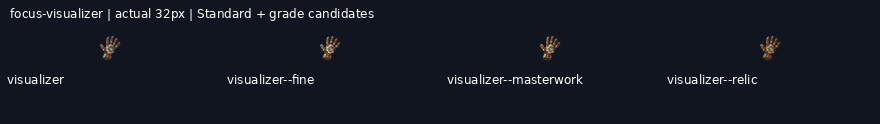
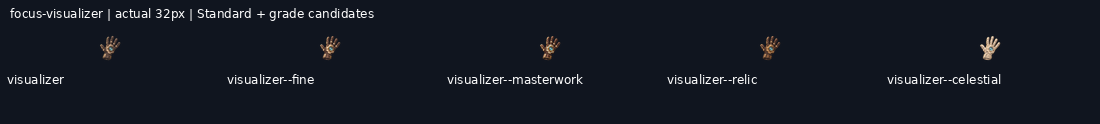
art: draw focus-visualizer--celestial grade candidate

diff --git a/art/_archive/gear/2026-11-19-kept-blade-grades/HANDOFF.md b/art/_archive/gear/2026-11-19-kept-blade-grades/HANDOFF.md
@@ -1,9 +1,9 @@
 # Kept-blade grade candidates
 
-**56/68 grade candidates delivered** on `art/2026-11-19-kept-blade-grades`. Shared mailbox: https://github.com/leonpentastorm/Project-Heaven-Cry/issues/3 . See claim.json for this lane’s current Standards. Released overlapping blades reuse12 peer candidates, with3 local alternatives archived.
+**57/68 grade candidates delivered** on `art/2026-11-19-kept-blade-grades`. Shared mailbox: https://github.com/leonpentastorm/Project-Heaven-Cry/issues/3 . See claim.json for this lane’s current Standards. Released overlapping blades reuse12 peer candidates, with3 local alternatives archived.
 
 Leon requested continuous candidate production; proof approval is not fabricated. All candidates remain review-candidate, production_approved:false, implementation_ready:false, with outline.review_required:true. Exact outline is measured, never asserted unless the masks match. Per-image registration is uniform scaling/translation only, without warp, silhouette masks, filled pixels or code-drawn substitutes. The generated native remains untouched.
 
 Each image is generated, shown, technically exported, validated, committed and pushed before the next. Sources, versioned masters, exact prompts/reference hashes,256/128/64/32 exports and grade comparison sheets are retained. Standards and earlier deliveries are unchanged. This sparse checkout cannot validate omitted historical files; full-library validation/build is an integration check on a full checkout.
 
-Remaining: weapon-ork_machete--masterwork, weapon-ork_machete--relic, weapon-ork_machete--celestial, weapon-war_axe--fine, weapon-war_axe--masterwork, weapon-war_axe--relic, weapon-war_axe--celestial, focus-visualizer--celestial, focus-attuner--fine, focus-attuner--masterwork, focus-attuner--relic, focus-attuner--celestial.
+Remaining: weapon-ork_machete--masterwork, weapon-ork_machete--relic, weapon-ork_machete--celestial, weapon-war_axe--fine, weapon-war_axe--masterwork, weapon-war_axe--relic, weapon-war_axe--celestial, focus-attuner--fine, focus-attuner--masterwork, focus-attuner--relic, focus-attuner--celestial.
